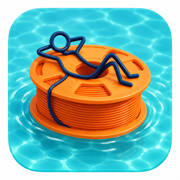
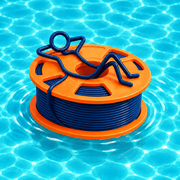
Update Spoolside branding to blue filament artwork

diff --git a/README.md b/README.md
@@ -58,7 +58,7 @@ Orders are read-only in Spoolside: each shows the case photo, phone model, color
 
 ## Artwork
 
-`public/spoolside.png` is the exact image supplied by Shelby in chat; the PWA icons are resized copies. No separate logo was generated.
+The current blue-filament artwork uses the transparent spool in `public/spoolside.png` and the square pool version for the PWA icons (192/512 px), sign-in icon and Apple Home Screen icon (180 px). Source artwork is preserved in `handoff/branding/`.
 
 ## iPhone workflow and notifications
 
